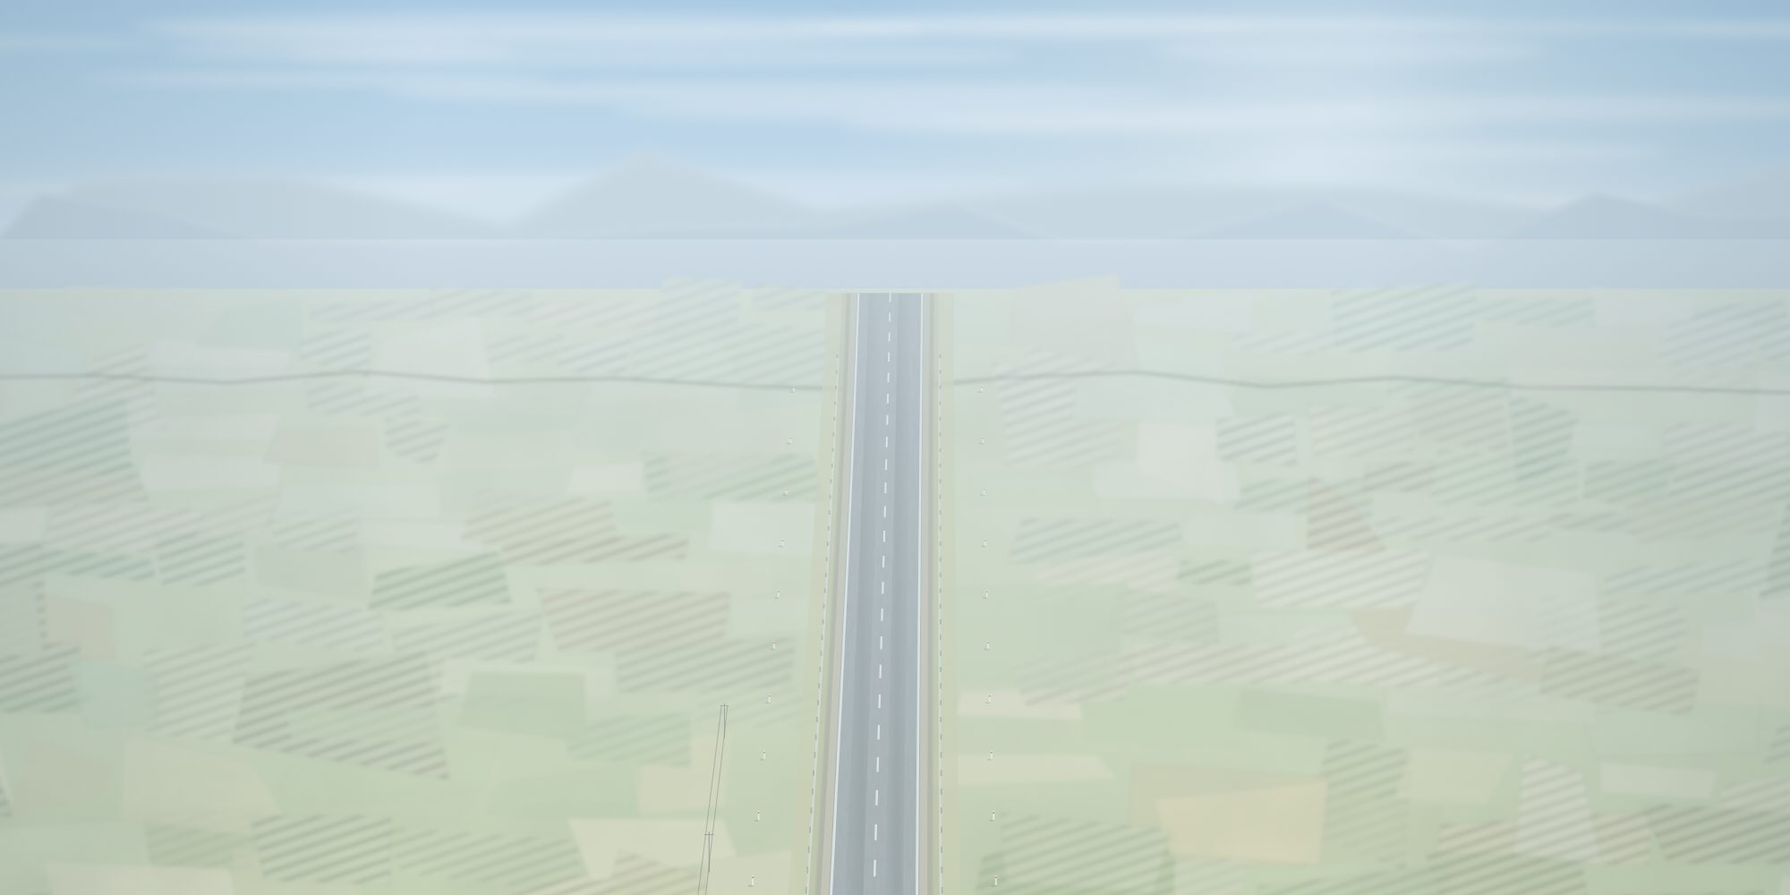
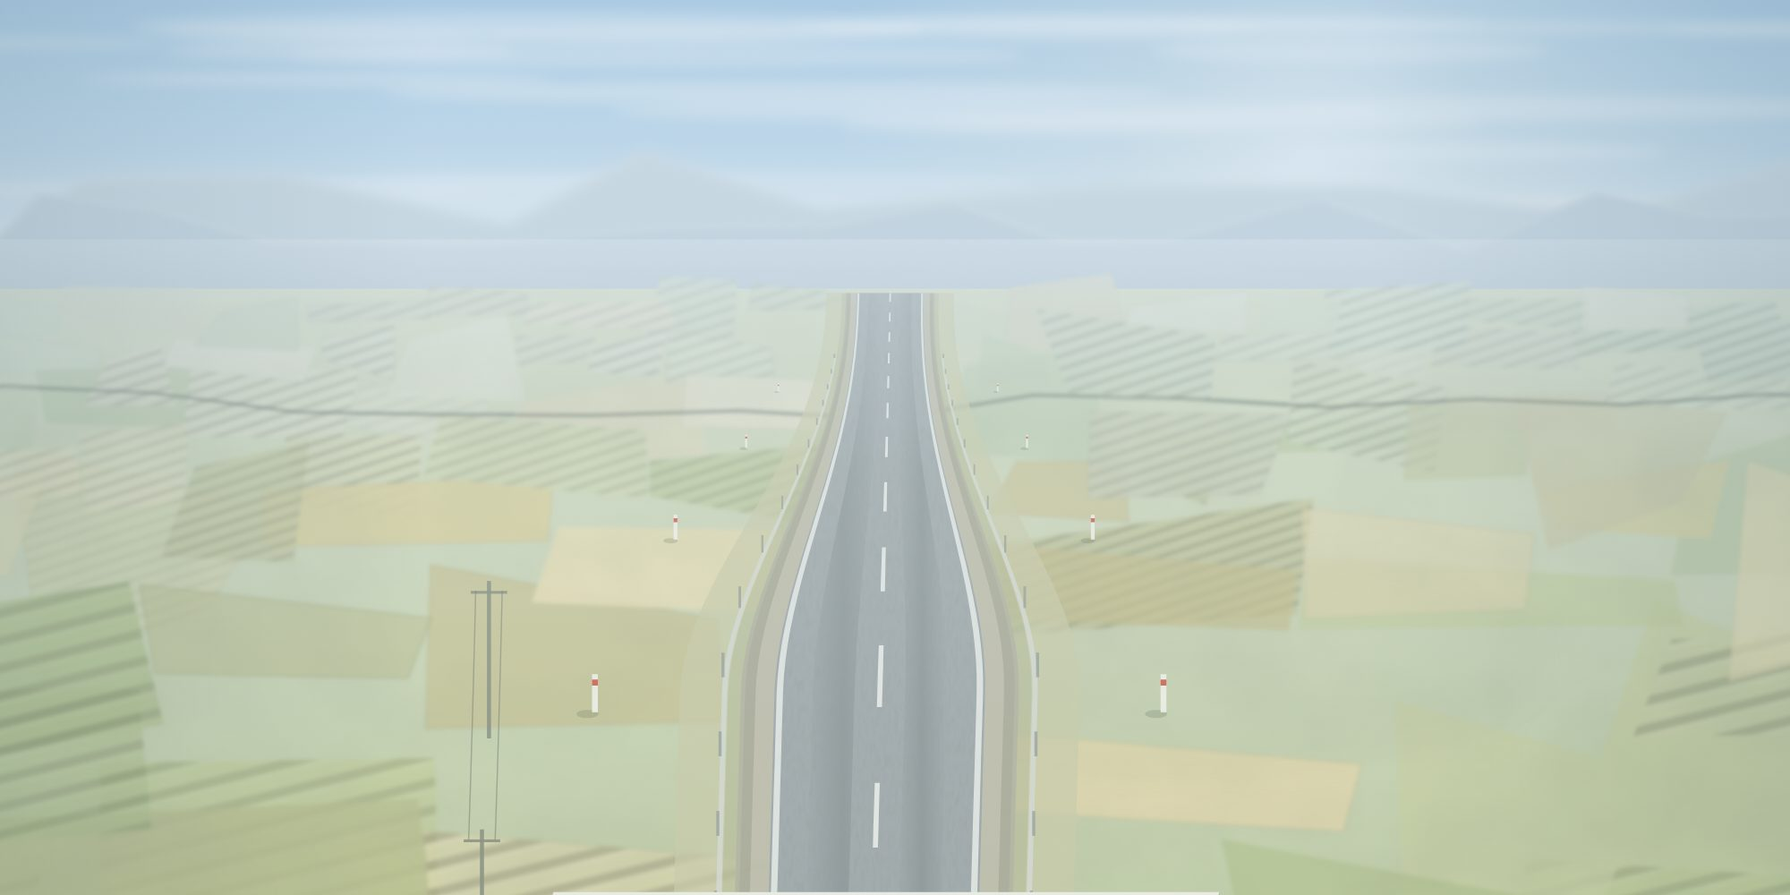
Fix four corridor bugs: captions, marker clicks, scroll zoom, the arrival
Building captions sat in the sky above their roofs. They are anchored on the
middle of each building's own roofline now — for the warehouse that is the
roof face as drawn, which is skewed back and left of the front wall — and the
caption is centred on that point, so the words read as a sign on the building.
The stem that used to reach down to the roof goes with it.

The corridor markers could not be clicked. #rows covers the whole corridor and
is painted after #pins, so a row's own box took every click aimed at a marker
under it. The row grid is a layout, not a surface: it passes the pointer
through, and the cards, panels and badges inside it take it back. The suite
missed this because pin.click() dispatches on the element and passes even when
something is lying over it, so it now hit-tests the point a reader presses.

The corridor grew about six-fold between the border and the city, which on a
page that is scrolled reads as a slow zoom rather than as travel. The ground
plane now opens out of the horizon over the first 620 page units, smoothstepped
so the road edges meet the held width tangentially, and holds that scale — the
one the old perspective reached mid-corridor — to the foot of the page. Road,
props, fields, haze and the consignment all follow the one law, mirrored in
JOURNEY.route.width for the page side. Two consequences handled: the border
complex is by far the widest prop authored in road half-widths, so GATE_K takes
[…]

diff --git a/plates.js b/plates.js
@@ -39,11 +39,17 @@ window.JOURNEY = {
   // sits left of the centre line.
   route: {
     // Road half-width at page y, matching tools/build_plates.py exactly:
-    //   halfw(y) = base + span * ((y - horizon) / (pageH - horizon)) ** exp
-    // The page uses it to scale the flowing chevrons, so a re-traced route must
-    // bring these with it.
-    width: { horizon: 260, base: 30, span: 150, exp: 1.25 },
-    d: "M 780.2 306 Q 776.6 416 774.6 471 Q 772.6 526 770.5 581 Q 768.4 636 766.2 691 Q 764 746 761.8 801 Q 759.6 856 757.5 911 Q 755.4 966 753.4 1021 Q 751.4 1076 749.6 1131 Q 747.8 1186 746.3 1241 Q 744.8 1296 743.6 1351 Q 742.3 1406 741.5 1461 Q 740.6 1516 740.2 1571 Q 739.8 1626 740 1681 Q 740.2 1736 740.9 1791 Q 741.6 1846 742.8 1901 Q 744 1956 745.5 2011 Q 747.1 2066 748.8 2121 Q 750.6 2176 752.6 2231 Q 754.5 2286 756.6 2341 Q 758.6 2396 760.6 2451 Q 762.6 2506 764.4 2561 Q 766.3 2616 767.9 2671 Q 769.5 2726 770.9 2781 Q 772.2 2836 773.1 2891 Q 773.9 2946 774.3 3001 Q 774.7 3056 774.4 3111 Q 774.2 3166 773.3 3221 Q 772.3 3276 770.7 3331 Q 769.1 3386 766.9 3441 Q 764.8 3496 762.1 3551 Q 759.5 3606 756.5 3661 Q 753.4 3716 750.1 3771 Q 746.8 3826 743.3 3881 Q 739.8 3936 736.2 3991 Q 732.6 4046 729.1 4101 Q 725.5 4156 722 4211 Q 718.5 4266 715.2 4321 Q 711.9 4376 708.9 4431 Q 705.9 4486 703.3 4541 Q 700.7 4596 698.5 4651 Q 696.4 4706 695.3 4740.5 L 694.2 4775",
+    //   t        = clamp((y - horizon) / (holdY - horizon), 0, 1)
+    //   depth(y) = holdDepth * t * t * (3 - 2t)
+    //   halfw(y) = base + span * depth(y) ** exp
+    // The corridor opens out over the first `holdY` units and then HOLDS that
+    // scale to the foot of the page: a perspective carried all the way down
+    // grows everything six-fold between the border and the city, which on a
+    // scrolled page reads as a zoom rather than as travel. The page uses this
+    // for the flowing chevrons and for the consignment's own size, so a
+    // re-traced route must bring these with it.
+    width: { horizon: 260, base: 30, span: 150, exp: 1.25, holdY: 620, holdDepth: 0.506608 },
+    d: "M 779.8 306 Q 767.9 416 759.1 471 Q 750.3 526 745.5 581 Q 740.8 636 739.2 691 Q 737.6 746 736.1 801 Q 734.5 856 733.1 911 Q 731.6 966 730.4 1021 Q 729.1 1076 728 1131 Q 726.9 1186 726.1 1241 Q 725.4 1296 724.9 1351 Q 724.4 1406 724.4 1461 Q 724.3 1516 724.7 1571 Q 725.1 1626 726.1 1681 Q 727.1 1736 728.6 1791 Q 730.2 1846 732.2 1901 Q 734.2 1956 736.6 2011 Q 739 2066 741.7 2121 Q 744.4 2176 747.2 2231 Q 750 2286 752.9 2341 Q 755.9 2396 758.8 2451 Q 761.7 2506 764.4 2561 Q 767.2 2616 769.8 2671 Q 772.3 2726 774.6 2781 Q 776.8 2836 778.7 2891 Q 780.5 2946 781.9 3001 Q 783.2 3056 783.9 3111 Q 784.7 3166 784.7 3221 Q 784.7 3276 784.1 3331 Q 783.5 3386 782.3 3441 Q 781.1 3496 779.5 3551 Q 777.9 3606 775.9 3661 Q 773.8 3716 771.6 3771 Q 769.3 3826 766.8 3881 Q 764.3 3936 761.8 3991 Q 759.2 4046 756.7 4101 Q 754.2 4156 751.7 4211 Q 749.3 4266 747.1 4321 Q 744.8 4376 742.9 4431 Q 741 4486 739.4 4541 Q 737.9 4596 736.8 4651 Q 735.7 4706 735.4 4740.5 L 735 4775",
     lane: -0.48
   },
 
@@ -51,6 +57,13 @@ window.JOURNEY = {
     // Fraction of the viewport height the truck holds while scrolling. Slightly
     // below centre so the road ahead of it stays visible.
     focus: 0.56,
+    // The consignment is delivered at the importer's premises (y 4304) and the
+    // corridor below row 6 is only the run-out to the foot of the page. It
+    // fades away over this stretch rather than driving on: the journey the deck
+    // describes is over by then, and the road runs out under it either way —
+    // held at the last point of the route, the consignment used to sit at the
+    // bottom of the page turned across the carriageway.
+    exit: { from: 4440, to: 4700 },
     // Page y at which the consignment picks up each state. `scanned` is the
     // inspection portal just past the gate; `sealed` is the GPS electronic seal
     // fitted at the transit gantry, which is what the row-3 copy describes.
@@ -77,10 +90,14 @@ window.JOURNEY = {
   // plate: the plates stay wordless (see ASSETS.md), the type stays crisp at
   // any viewport width, and the caption follows the page's own theme.
   //
-  // y is the highest point of the roof; the caption sits above it.
+  // The anchor is the middle of the building's own roofline — x is the centre
+  // of the roof as drawn (the warehouse's roof face is skewed back and to the
+  // left of its front wall, so that is not the centre of the footprint), and y
+  // is its top edge. The caption is centred on that point, so it reads as a
+  // sign on the building rather than as a tag floating in the sky above it.
   labels: [
-    { y: 838,  x: 745,  text: "Border checkpoint" },
-    { y: 2470, x: 1230, text: "Customs warehouse" }
+    { y: 848,  x: 772,  text: "Border checkpoint" },
+    { y: 2552, x: 1199, text: "Customs warehouse" }
   ],
 
   // Map markers pinned to the corridor, in page coordinates. A marker with a

diff --git a/app.js b/app.js
@@ -606,14 +606,20 @@
   /* ---------------- corridor geometry ---------------- */
   // Mirrors tools/build_plates.py exactly; the parameters live in plates.js.
   var WP = J.route.width;
-  function halfwAt(y) {
-    var t = Math.max(0, y - WP.horizon) / (PAGE.h - WP.horizon);
-    return WP.base + WP.span * Math.pow(t, WP.exp);
+  // Mirrors depth()/halfw() in tools/build_plates.py: the corridor opens out
+  // over the first WP.holdY units, smoothstepped so it arrives at the hold with
+  // no rate of change, and then holds that scale to the foot of the page —
+  // nothing on the road grows as the reader scrolls.
+  function depthAt(y) {
+    var t = clamp((y - WP.horizon) / (WP.holdY - WP.horizon), 0, 1);
+    return WP.holdDepth * t * t * (3 - 2 * t);
   }
-  // The consignment is drawn 120 units wide. It grows with the road as the
-  // corridor comes toward the camera, but on a compressed curve: at full
-  // perspective it would be five times bigger at the city than at the border
-  // and would swamp the last rows.
+  function halfwAt(y) {
+    return WP.base + WP.span * Math.pow(depthAt(y), WP.exp);
+  }
+  // The consignment is drawn 120 units wide. It grows with the road while the
+  // corridor is still opening out, on a compressed curve, and then holds one
+  // size for the whole journey — the same law the road itself follows.
   var TW = 120, TH = 152;
   var TRUCK_MID = halfwAt(2400), TRUCK_UNITS = 74, TRUCK_GROWTH = 0.62;
   function truckScale(y) {
@@ -674,11 +680,16 @@
     }
     var a = SAMPLES[lo], b = SAMPLES[Math.min(SAMPLES.length - 1, lo + 1)];
     var t = b.y === a.y ? 0 : (y - a.y) / (b.y - a.y);
-    var ref = SAMPLES[Math.min(SAMPLES.length - 1, lo + 3)];
+    // Heading is read three samples ahead, from a pair that always exists: at
+    // the end of the table both ends of that pair collapse onto the last
+    // sample, and atan2(0, 0) is 0 — which would swing the consignment a
+    // quarter turn on the last frame of the corridor.
+    var i0 = Math.min(lo, SAMPLES.length - 4);
+    var head = SAMPLES[i0], ref = SAMPLES[i0 + 3];
     return {
       x: a.x + (b.x - a.x) * t,
       l: a.l + (b.l - a.l) * t,
-      a: Math.atan2(ref.y - a.y, ref.x - a.x) * 180 / Math.PI
+      a: Math.atan2(ref.y - head.y, ref.x - head.x) * 180 / Math.PI
     };
   }
 
@@ -1129,13 +1140,14 @@
 
   // The two buildings the talk names out loud. Drawn as HTML over the plate
   // rather than baked into it: the plates stay wordless, the type stays crisp
-  // at any width, and the caption follows the page's theme.
+  // at any width, and the caption follows the page's theme. The anchor is the
+  // middle of the building's roofline and the caption is centred on it (see
+  // JOURNEY.labels), so the words sit on the building itself.
   function buildLabels() {
     J.labels.forEach(function (lb) {
       var node = el("div", "blabel");
       place(node, lb.x, lb.y);
       node.appendChild(el("span", "bl-text", lb.text));
-      node.appendChild(el("span", "bl-stem"));
       $labels.appendChild(node);
     });
   }
@@ -1385,6 +1397,10 @@
     var ts = truckScale(pageY);
     $truck.style.transform = "translate(" + s.x.toFixed(2) + "px," + pageY.toFixed(2) + "px) rotate(" +
       (s.a - 90).toFixed(2) + "deg) scale(" + ts.toFixed(3) + ") translate(" + (-TW / 2) + "px," + (-TH) + "px)";
+    // delivered: the consignment fades out over the run-out below row 6 rather
+    // than driving on to the foot of the page
+    var ex = J.truck.exit;
+    $truck.style.opacity = clamp((ex.to - pageY) / (ex.to - ex.from), 0, 1).toFixed(3);
     var off = String(routeLen - s.l);
     routeGlow.style.strokeDashoffset = off;
     routeHalo.style.strokeDashoffset = off;

diff --git a/styles.css b/styles.css
@@ -218,15 +218,16 @@ body[data-beat="baseline2018"] .route-line { opacity: 0; }
 .pin.is-live:hover .pin-body { background: var(--teal); }
 .pin.is-live:hover svg { color: #fff; }
 
-/* building captions over the plate */
+/* building captions over the plate: centred on the middle of the building's own
+   roofline (see JOURNEY.labels), so the words read as a sign on the building
+   instead of a tag hanging in the sky above it */
 #labels { position: absolute; inset: 0; pointer-events: none; }
-.blabel { position: absolute; transform: translate(-50%, -100%); display: flex;
+.blabel { position: absolute; transform: translate(-50%, -50%); display: flex;
   flex-direction: column; align-items: center; }
 .blabel .bl-text { font-family: var(--font-mono); font-size: 11px; font-weight: 500;
   letter-spacing: 0.16em; text-transform: uppercase; color: var(--ink);
   background: var(--panel-solid); border: 1px solid var(--stroke);
   border-radius: 6px; padding: 6px 12px; white-space: nowrap; box-shadow: var(--shadow-soft); }
-.blabel .bl-stem { width: 1.5px; height: 18px; background: var(--stroke-strong); }
 
 /* ---- tail ---------------------------------------------------------------- */
 #tail { min-height: 56vh; display: flex; flex-direction: column; align-items: center;
@@ -249,8 +250,13 @@ body[data-beat="baseline2018"] .route-line { opacity: 0; }
    1920 and spills into its neighbours at 1440. Everything inside a row is sized
    in em against this one declaration, and 0.781vw is exactly the factor that
    keeps content height and row height in step from 1280 up to 1920. */
+/* #rows covers the whole corridor and is painted after #pins, so a row's own
+   box used to take every click aimed at a marker under it. The row grid is a
+   layout, not a surface: it lets the pointer through, and the things inside it
+   that are actually there to be read or used take it back. */
 #rows { position: absolute; inset: 0; display: grid;
-  grid-template-rows: repeat(var(--rows, 6), minmax(0, 1fr)); }
+  grid-template-rows: repeat(var(--rows, 6), minmax(0, 1fr)); pointer-events: none; }
+#rows .glass, #rows .structure, #rows .next-step, #rows .step-n { pointer-events: auto; }
 #spine { position: absolute; top: 3%; bottom: 3%;
   left: calc(var(--pad) + var(--badge) / 2 - 1px); width: 2px;
   background: linear-gradient(180deg, transparent, var(--stroke-strong) 6%,
@@ -663,7 +669,8 @@ body[data-beat="baseline2018"] .route-line { opacity: 0; }
   #corridor img { position: absolute; left: 0; top: 0; width: 100%; height: 100%;
     object-fit: cover; content-visibility: visible; display: none; }
   #corridor img:nth-child(3) { display: block; }
-  #rows { position: static; display: block; }
+  /* no corridor overlay down here, so nothing is under the rows to click */
+  #rows { position: static; display: block; pointer-events: auto; }
   #spine { display: none; }
   .row { position: relative; z-index: 1; grid-template-columns: 1fr; min-height: 100vh;
     padding: calc(var(--bar-h) + 24px) 18px; align-content: center; gap: 16px; }

diff --git a/tools/build_plates.py b/tools/build_plates.py
@@ -56,11 +56,29 @@ def cx(y):
                           (-p0 + 3 * p1 - 3 * p2 + p3) * t3)
     return 800.0
 
+# The corridor establishes its depth once and then HOLDS it. A perspective run
+# all the way to the foot of the page grows the road, the props and the
+# consignment about six-fold between the border and the city, which on a page
+# that is scrolled reads as a slow zoom rather than as travel. So the ground
+# plane opens out over the first HOLD_Y units — the reader still comes over the
+# horizon into the corridor — and from there down every drawn thing keeps the
+# scale the old perspective reached at HOLD_REF, the middle of the corridor.
+HOLD_Y = 620.0                  # page y at which the corridor stops growing
+HOLD_REF = 2560.0               # the scale it settles on: mid-corridor
+HOLD_DEPTH = (HOLD_REF - HORIZON) / (TOTAL_H - HORIZON)
+HAZE_END = HOLD_Y + 300.0       # aerial perspective belongs to the ramp only
+
 def depth(y):
-    """0 at the horizon, 1 at the bottom of the page. Everything that has to
-    obey the ground plane is driven from this, which is what stops the corridor
-    reading as a flat diagram."""
-    return max(0.0, y - HORIZON) / (TOTAL_H - HORIZON)
+    """0 at the horizon, HOLD_DEPTH from HOLD_Y down.
+
+    Everything that has to obey the ground plane is driven from this. It is no
+    longer a straight ramp to the bottom of the page: past HOLD_Y the corridor
+    is at a constant scale, so scrolling reads as moving along the road rather
+    than as zooming into it. The ramp is smoothstepped so it arrives at the hold
+    with no rate of change — the road edges meet the held width tangentially
+    instead of turning a corner there."""
+    t = max(0.0, min(1.0, (y - HORIZON) / (HOLD_Y - HORIZON)))
+    return HOLD_DEPTH * t * t * (3.0 - 2.0 * t)
 
 def halfw(y):
     """Half the carriageway width at page y."""
@@ -175,7 +193,7 @@ def defs():
       '<stop offset="1" stop-color="' + ASPHALT_NEAR + '"/></linearGradient>'
       # haze thins as the ground comes toward the viewer — the single strongest
       # depth cue on the plate
-      '<linearGradient id="g-haze" gradientUnits="userSpaceOnUse" x1="0" y1="' + f(HORIZON - 50) + '" x2="0" y2="1900">'
+      '<linearGradient id="g-haze" gradientUnits="userSpaceOnUse" x1="0" y1="' + f(HORIZON - 50) + '" x2="0" y2="' + f(HAZE_END) + '">'
       '<stop offset="0" stop-color="' + HAZE + '" stop-opacity="0.6"/>'
       '<stop offset="0.1" stop-color="' + HAZE + '" stop-opacity="0.38"/>'
       '<stop offset="0.3" stop-color="' + HAZE + '" stop-opacity="0.19"/>'
@@ -501,8 +519,15 @@ PROPS = []      # (ymin, ymax, svg) — sliced per section
 def prop(ymin, ymax, svg):
     PROPS.append((ymin, ymax, svg))
 
+# A prop is emitted into every section its band reaches, plus a margin: at the
+# held scale the tallest structures stand ~7 road half-widths proud of their
+# own y, which is most of a section, and a prop missing from the section above
+# its band loses its roof at the seam.
+PROP_MARGIN = 700.0
+
 def props(y0, y1):
-    return "".join(s for (a, b, s) in PROPS if b > y0 - 60 and a < y1 + 60)
+    return "".join(s for (a, b, s) in PROPS
+                   if b > y0 - PROP_MARGIN and a < y1 + PROP_MARGIN)
 
 # =========================================================================
 # SCENE PROPS
@@ -515,11 +540,19 @@ def props(y0, y1):
 # =========================================================================
 
 # ------------------------------------------------ row 2 · the border gate ---
+# The border complex is authored in road half-widths like every other prop, but
+# it is by far the widest of them: 12.4 of them across the canopy. That was
+# comfortable while the perspective drew this row's road narrow, and fills the
+# frame edge to edge now that the corridor holds one scale. GATE_K takes the
+# whole composition — structure and apron alike — back to the footprint it had,
+# without touching any of its internal proportions.
+GATE_K = 0.62
+
 def _gate():
     y = R(2)
-    c, u, s = cx(y), halfw(y), sc(y)
+    c, u, s = cx(y), halfw(y) * GATE_K, sc(y) * GATE_K
     o = ['<path d="%s" fill="#b9c0b1" opacity="0.58" filter="url(#fx-soft)"/>'
-         % _strip(y - 232, y + 232, -4.6, 4.6)]
+         % _strip(y - 232, y + 232, -4.6 * GATE_K, 4.6 * GATE_K)]
     # the apron is painted over the carriageway, so put the road back on top of
     # it — the corridor has to run visibly under the canopy, not stop at it
     o.append('<path d="%s" fill="url(#g-asphalt)"/>' % _strip(y - 226, y + 232, -1, 1))
@@ -528,7 +561,7 @@ def _gate():
     for k in (-0.34, 0.34):
         o.append('<path d="%s" fill="#e8eee7" opacity="0.1"/>' % _strip(y - 196, y + 202, k - .02, k + .02))
     o.append('<path d="%s" fill="#5b6b52" opacity="0.22" filter="url(#fx-soft)"/>'
-             % _strip(y + 24, y + 122, -4.4, 4.4))
+             % _strip(y + 24, y + 122, -4.4 * GATE_K, 4.4 * GATE_K))
     # main hall, set back behind the canopy
     hall_w, hall_h = 10.2 * u, 3.0 * u
     o.append(solid(c - hall_w / 2, y - 2.8 * u, hall_w, hall_h, 1.1 * u, BLD_FACE, BLD_SIDE, BLD_TOP, 0.32))
@@ -797,10 +830,11 @@ def far_haze(y0, y1):
     This is the one cue that survives the trees. Applied inside ground() it
     only hazed the fields, and the crisp far road and crisp far gate then read
     flat against them; applied here it hazes whatever is standing at that
-    depth, which is what air actually does."""
-    if y0 > 1900:
+    depth, which is what air actually does. It stops at HAZE_END: below the
+    hold everything stands at the same depth, so there is no air to draw."""
+    if y0 > HAZE_END:
         return ""
-    b = min(y1 + 2, 1900.0)
+    b = min(y1 + 2, HAZE_END)
     return '<rect x="0" y="%s" width="1600" height="%s" fill="url(#g-haze)"/>' % (f(y0), f(b - y0))
 
 # --------------------------------------------------------------- assembly --

diff --git a/ASSETS.md b/ASSETS.md
@@ -25,8 +25,10 @@ the contract that lets it drop in without touching layout code.
   `assets/plates/vertical/sN.jpg` (any format the browser reads works — update
   that section's `src` in `plates.js` if the extension changes). Nothing else
   changes.
-- If the final render **moves the road**, re-trace `JOURNEY.route.d` against it
-  and update `JOURNEY.route.width` to match the new road half-width law. The
+- If the final render **moves the road** or **changes its width law**, re-trace
+  `JOURNEY.route.d` against it and update `JOURNEY.route.width` — including
+  `holdY` and `holdDepth`, the point at which the corridor stops opening out
+  and the scale it holds from there down. The
   glow trail, the flowing chevrons, the map pins, the building captions and the
   truck all derive from those two values alone.
 
@@ -56,6 +58,14 @@ Content top → bottom, one landmark per row:
 - **No vegetation.** No trees, no bushes, no hedge lines. Depth is carried by
   aerial haze, by the field patchwork, and by the verge marker posts, whose
   drawn height and spacing are both pure functions of depth.
+- **One scale below the ramp.** The ground plane opens out over the first ~620
+  page units, out of the horizon, and then holds that scale to the foot of the
+  page: road width, prop size, field size and haze are all constant from there
+  down. A perspective carried the whole way grows everything about six-fold
+  between the border and the city, which on a page that is *scrolled* reads as
+  a slow zoom rather than as travel. A hand-rendered replacement must hold the
+  same discipline, and `JOURNEY.route.width` (`holdY`, `holdDepth`) must match
+  whatever law it uses.
 - **No text, no signage words, no numbers, no UI panels, and no flag.** Every
   word on screen is an HTML overlay — including the two building captions, see
   D3 below.
@@ -101,8 +111,10 @@ window wall. Those read as a bright day.
    locator motif; not yet placed).
 3. **Building captions are HTML overlays, not plate text.** "Border checkpoint"
    and "Customs warehouse" are positioned from `JOURNEY.labels` in page
-   coordinates, above each building's highest roof point. Do not bake them into
-   a plate; if a final render moves a roofline, move the `y` in `plates.js`.
+   coordinates and centred on the middle of each building's own roofline, so
+   the words sit on the building. Do not bake them into a plate; if a final
+   render moves a roofline, move the `x`/`y` in `plates.js` to the middle of
+   the roof as drawn.
 4. Customs Committee emblem. The page currently shows a neutral mark rather
    than a fake one — `buildChrome()` in `app.js` draws it.
 

diff --git a/README.md b/README.md
@@ -34,7 +34,11 @@ the customs warehouse, the declaration office and the importer's premises each
 sitting on their own row. The consignment drives that road as you scroll, and
 whatever landmark sits beside it is the beat you are reading: the six rows and
 the six section plates are the same grid, defined once in `plates.js`, so they
-cannot drift apart.
+cannot drift apart. The corridor opens out of the horizon over the first row
+and then holds one scale to the foot of the page — the road, the landmarks and
+the consignment are all the same size at the city as at the border, so
+scrolling reads as travel rather than as a slow zoom. The consignment is
+delivered at the importer's premises on the last row and fades out below it.
 
 The first corridor beat is the 2018 "before" frame, and it shows it: a queue of
 halted trucks standing between the consignment and the gate, two of them pulled
@@ -116,13 +120,16 @@ npx --no-install http-server -p 8099 -s .
 node tools/verify.mjs
 ```
 
-39 assertions. Zero network requests after load, on `file://` and `http://`; the
+43 assertions. Zero network requests after load, on `file://` and `http://`; the
 six corridor rows each exactly one sixth of the corridor; **every beat fitting
 the viewport it is presented in, and every row's content fitting its row**, at
 1920, 1600, 1440 and 1280; the consignment moving down the route monotonically
-and picking up its scanned and sealed states in order; no metric without an
-anchor and no chart without a caption; the full keyboard map; every marker
-opening its panel, `Esc` closing it and focus returning to the marker; no
+and picking up its scanned and sealed states in order, holding one size past
+the corridor's hold point, never turning across the carriageway, and being gone
+once it has been delivered; no metric without an anchor and no chart without a
+caption; the full keyboard map; every marker opening its panel — and a real
+pointer landing on the marker rather than on whatever is over it — `Esc`
+closing it and focus returning to the marker; no
 horizontal overflow at six widths; the smallest type on the page clearing 4.5:1
 against the panel; and reduced-motion behaviour, including that the passenger
 dots stay spread along their route rather than piling at the door when their
